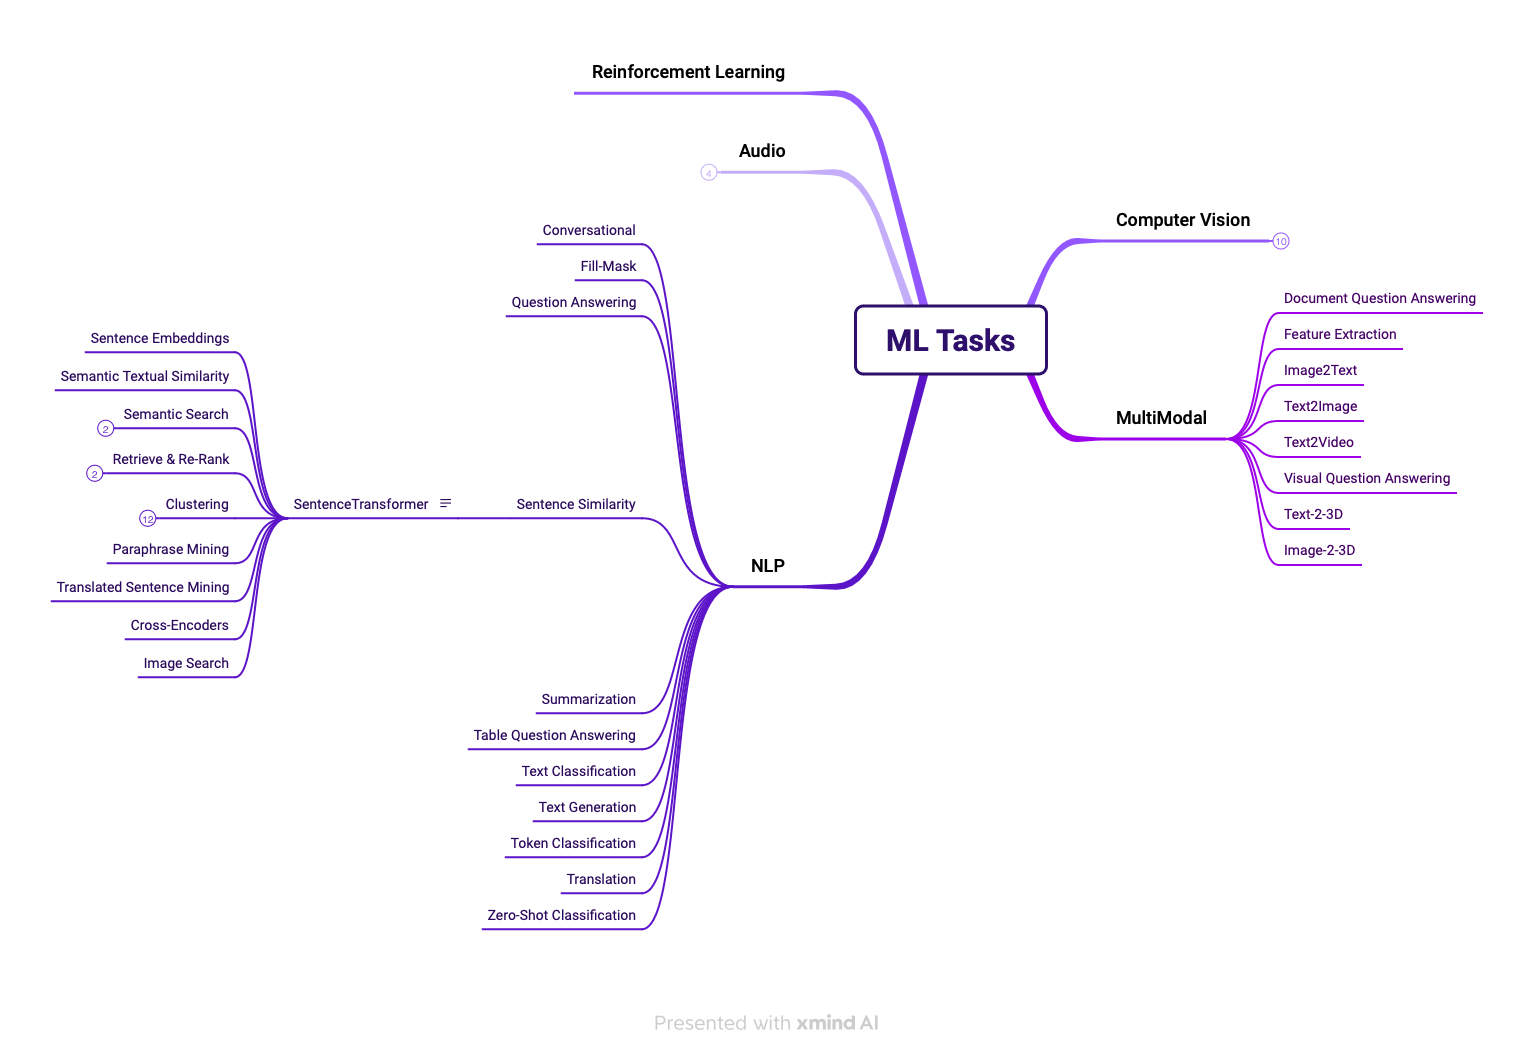
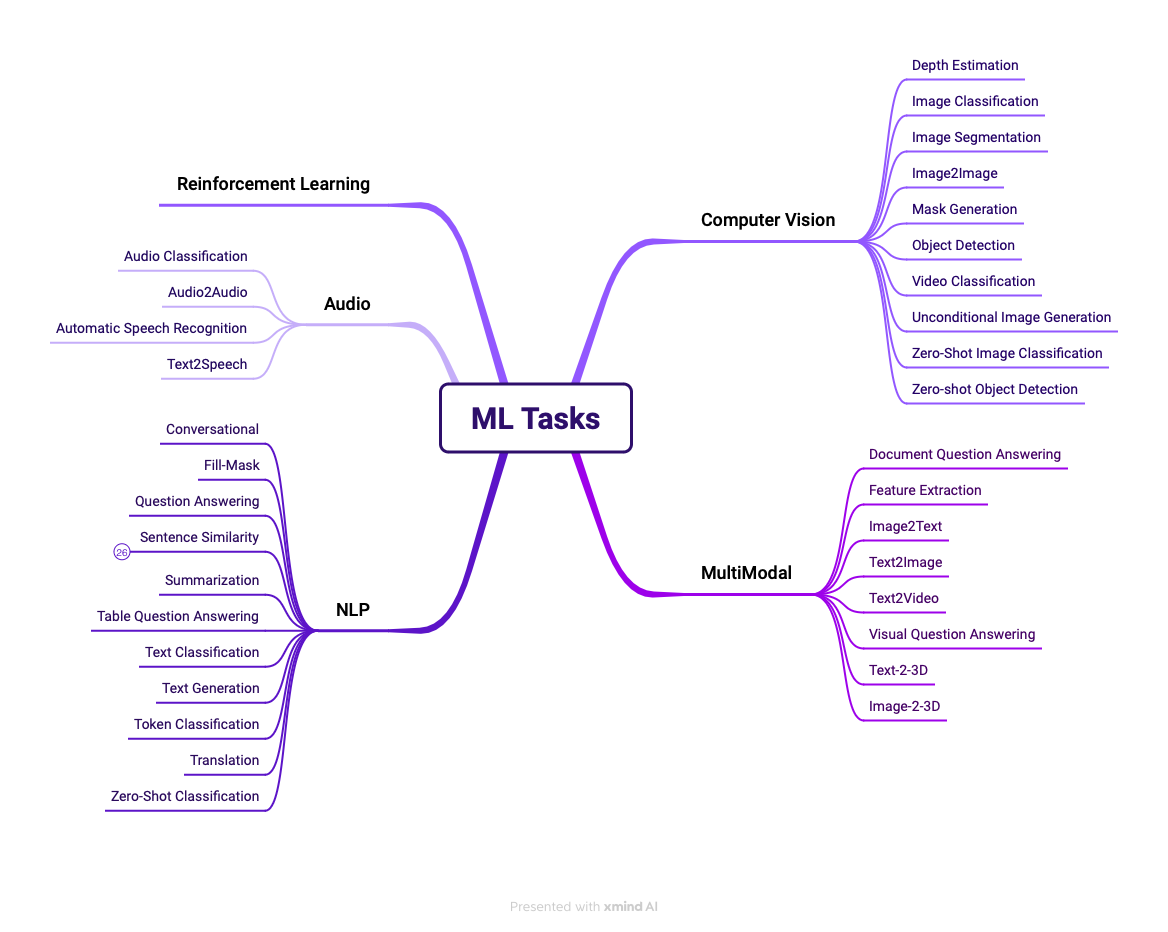
Replace image of sentence transformers

diff --git a/nlp/sentence-similarity/README.md b/nlp/sentence-similarity/README.md
@@ -14,7 +14,9 @@ We will use the Sentence Transformers library to calculate embeddings of sentenc
 
 # Usage
 
-<div style="text-align: center"><img src="../../images/LLMs ecosystems-SentenceTransformer.png" width="100%" heigh="100%" alt="sentence trnsformer"></div>
+See the part of SentenceTransformer in the the section below
+
+<div style="text-align: center"><img src="../../images/SentenceSimilarity.png" width="100%" heigh="100%" alt="sentence trnsformer"></div>
 
 ## Passage Ranking
 
